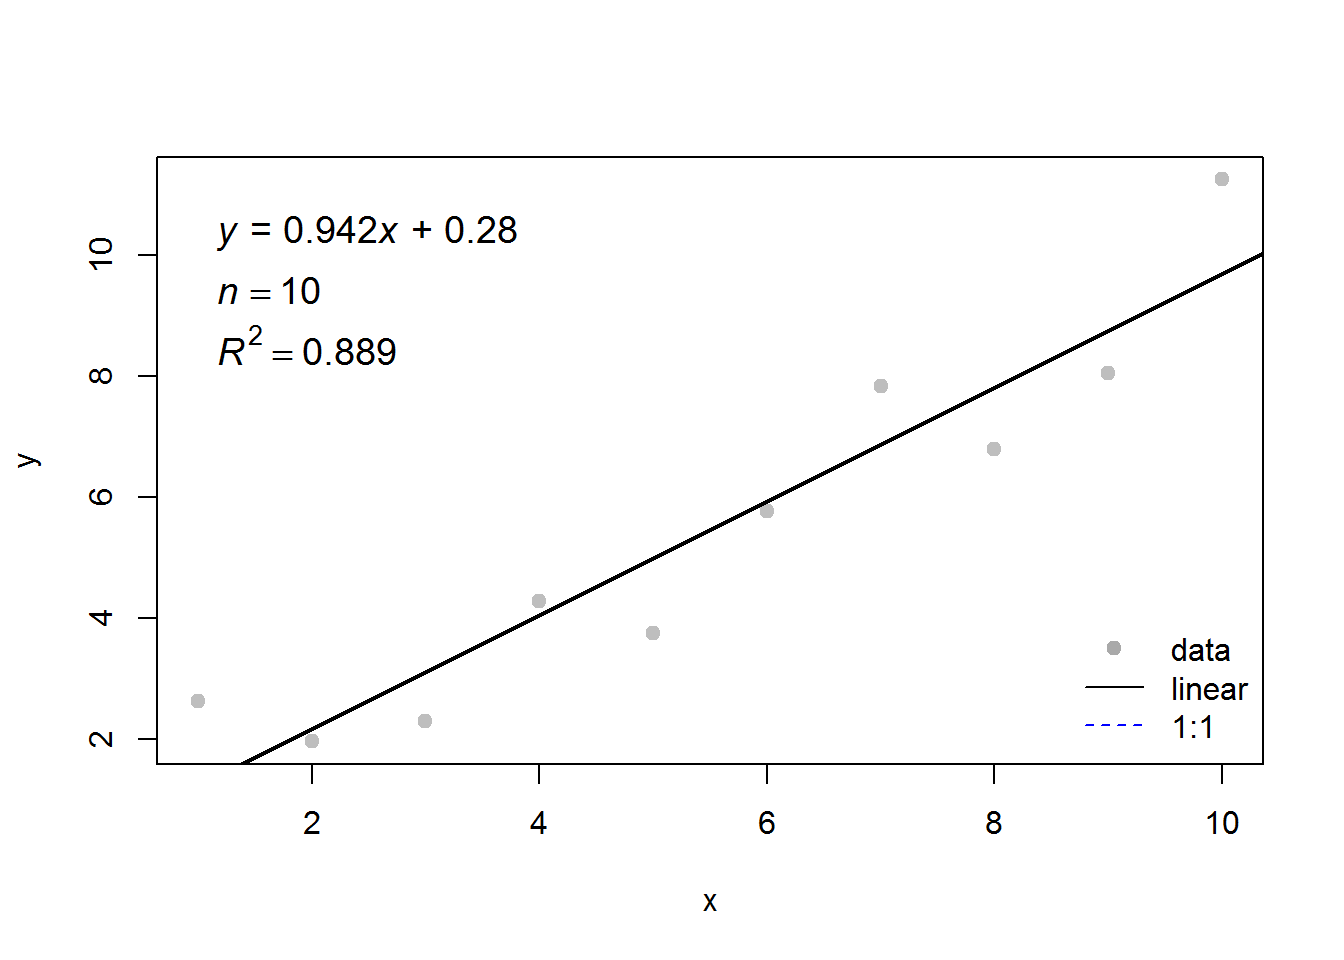
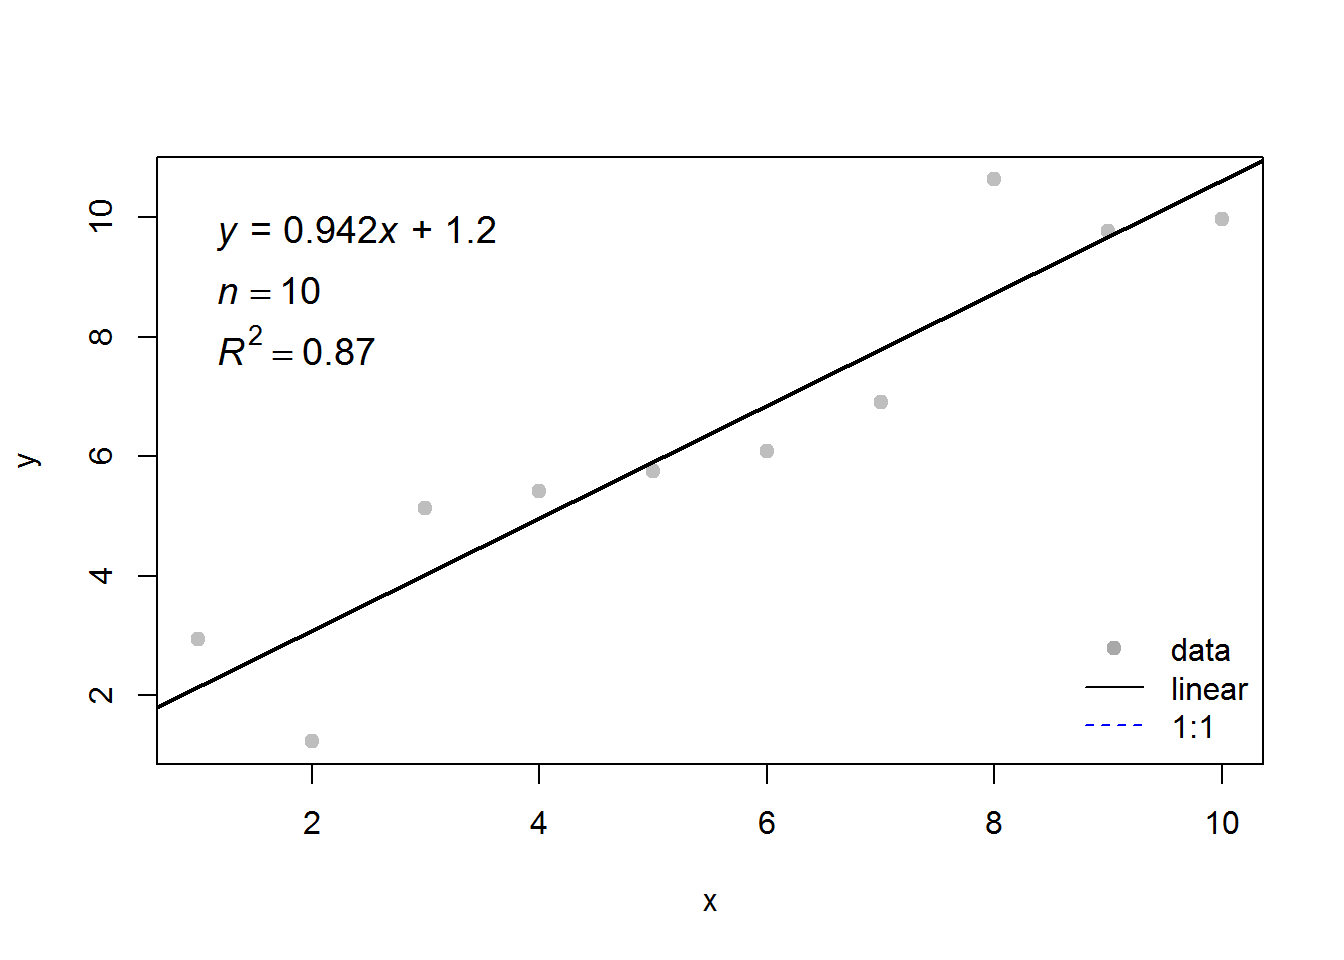
update_auto

diff --git a/content/post/2017-11-21-latex-and-me-1.html b/content/post/2017-11-21-latex-and-me-1.html
@@ -21,16 +21,16 @@ categories: []
 
 </div>
 <p>其实，这本书早在今年 6 月就写完了，7 月做了最后一次修改。当时书号已经批了，封面也有了模样，我以为马上就能印出来了，于是告诉了我能告诉的每一个朋友。朋友们也很给力，把白花花的银子拍在桌上，就等着付钱买了。当了教授的老同学说：放心，到时候我送给我的学生人手一本！</p>
-<p>谁知道，一晃四个多月过去了，书还没出来。我的前期宣传白费了。让人欣慰的是，直到现在，仍然有铁杆粉丝惦记着我，时不时发来鼓励的短信：”喂，你那书烂尾了吧？啊哈哈哈哈~<sub>~</sub>“</p>
+<p>谁知道，一晃四个多月过去了，书还没出来。我的前期宣传白费了。让人欣慰的是，直到现在，仍然有铁杆粉丝惦记着我，时不时发来鼓励的短信：“喂，你那书烂尾了吧？啊哈哈哈哈~<sub>~</sub>”</p>
 <p>谢谢。</p>
 <p>那么四个月里这书干嘛去了？</p>
 <p>在排版。</p>
 <p>《学 R》这本书，一直排不出理想的模样。</p>
-<p>四个月是在反反复复修改排版里度过的。一直拖到上周，我们仍然看不到任何排版成功的迹象。2017 年所剩无几的耐心消耗殆尽，一咬牙一跺脚，我们决定壮士断腕。Y 从出版社讨来排版文件，并且自己花钱购买了专业软件，自己排；我同时用 <span class="math inline">\(\LaTeX\)</span> 排，齐头并进。谁先排好就用谁的。我们谁都不想再拖，再拖就真的要吐血了。</p>
+<p>四个月是在反反复复修改排版里度过的。一直拖到上周，我们仍然看不到任何排版成功的迹象。2017 年所剩无几的耐心消耗殆尽，一咬牙一跺脚，我们决定壮士断腕。合作作者 Y 从出版社讨来排版文件，并且自己花钱购买了专业软件，自己排；我同时用 <span class="math inline">\(\LaTeX\)</span> 排，齐头并进。谁先排好就用谁的。我们谁都不想再拖，再拖就真的要吐血了。</p>
 <p>当做出这个决定的第二天，Y 看到我用 <span class="math inline">\(\LaTeX\)</span> 做出的 pdf 书稿小样得到了印刷厂的认可，就放下了手里的专业软件，决定不干了：“<span class="math inline">\(\LaTeX\)</span> 真厉害，有空我学一下……”</p>
 <p>我立马拦住：“最好别去学。这个坑太大。一入 <span class="math inline">\(\LaTeX\)</span>，坑深似海。”</p>
 <p>2</p>
-<p>出版社负责录入和排版的工作，简称”录排“。</p>
+<p>出版社负责录入和排版的工作，简称“录排”。</p>
 <p>这四个月来，录排可谓兢兢业业，全心全力为《学 R》排版。可惜，辛苦不一定有回报，排出的书稿，一直有层出不穷的问题。</p>
 <p>比如说，丢失公式和特殊字符。原稿里的诸如 <em>R</em><sup>2</sup>， <span class="math inline">\(\pi\)</span> 等都莫名其妙消失了。</p>
 <p>比如说，字体。原稿里的代码都是用等宽字体表示的，录排之后都成了跟正文一样的字体。</p>
@@ -51,7 +51,7 @@ categories: []
 <p>我百思不得其解：这到底是怎么回事？</p>
 <p>3</p>
 <p>来回折磨了四个月。终于， Y 试用了一下录排用的排版软件—— Adobe InDesign，俗称 ID，是国内出版业主流的专业排版软件。</p>
-<p>Y 立刻对我说：”我明白问题出在哪里了！“</p>
+<p>Y 立刻对我说：“我明白问题出在哪里了！”</p>
 <p>原来，录排是把我们提交的原稿，转成了 txt 文本文件；书里的插图，全部转成了 tif 图片。然后，把这些素材导入 ID，然后手动按照原稿 pdf 的样子做调整。</p>
 <p>这正是录排一贯的工作流程。</p>
 <p>这个流程，对文学类书籍没有问题。一篇小说，重要的是内容，不是格式；只要把文字分好段，就不会有大错。</p>

diff --git a/content/post/2017-06-23-beginr_released.html b/content/post/2017-06-23-beginr_released.html
@@ -54,12 +54,12 @@ y &lt;- 1:10 + rnorm(10)
 beginr::plotlm(x, y)</code></pre>
 <p><img src="/post/2017-06-23-beginr_released_files/figure-html/unnamed-chunk-2-1.png" width="672" /></p>
 <pre><code>## [[1]]
-##              Estimate Std. Error   t value     Pr(&gt;|t|)
-## (Intercept) 0.5442648  0.6977742 0.7800014 4.578438e-01
-## x           0.9770216  0.1124565 8.6879968 2.400091e-05
+##               Estimate Std. Error    t value     Pr(&gt;|t|)
+## (Intercept) -0.6577368  0.7842379 -0.8386954 4.259887e-01
+## x            1.1781598  0.1263914  9.3215194 1.430609e-05
 ## 
 ## [[2]]
-## [1] 0.9041701</code></pre>
+## [1] 0.9156925</code></pre>
 <p>经常需要了解一组数据的分布, 看看是不是正态分布. beginr 里的 <code>plothist()</code> 函数不仅做出直方图和平滑曲线, 并且标出中值, 中位数, 四分位数, 标准偏差, 样本数, 以及用来判断是否正态分布的 skewness 值.</p>
 <pre class="r"><code>x &lt;- rnorm(10000)
 beginr::plothist(x)</code></pre>
@@ -93,20 +93,20 @@ beginr::errorbar(x, y, yupper = 0.1, ylower = 0.1)</code></pre>
 <p>beginr 提供了一些对数据框计算的函数, 例如计算多列数据两两的相关性和线性拟合结果, 可以用 <code>lmdf()</code> 函数.</p>
 <pre class="r"><code>df &lt;- data.frame(a = 1:10, b = 1:10 + rnorm(10), c = 1:10 + rnorm(10))
 beginr::lmdf(df)</code></pre>
-<pre><code>##   x y r.squared adj.r.squared   intercept     slope Std.Error.intercept
-## 1 a b 0.8609231     0.8435385 -0.06596404 0.9502072           0.8378166
-## 2 a c 0.9394495     0.9318807 -0.49256902 1.1665419           0.6496924
-## 3 b a 0.8609231     0.8435385  0.82468862 0.9060372           0.7647301
-## 4 b c 0.8393032     0.8192161  0.36754992 1.0766806           0.9893454
-## 5 c a 0.9394495     0.9318807  0.72970754 0.8053286           0.4957592
-## 6 c b 0.8393032     0.8192161  0.54270807 0.7795285           0.8270880
-##   Std.Error.slope t.intercept   t.slope Pr.intercept     Pr.slope
-## 1      0.13502637 -0.07873327  7.037198    0.9391785 1.085412e-04
-## 2      0.10470740 -0.75815733 11.140968    0.4700993 3.768146e-06
-## 3      0.12874972  1.07840483  7.037198    0.3122922 1.085412e-04
-## 4      0.16656589  0.37150819  6.463992    0.7199056 1.953942e-04
-## 5      0.07228533  1.47189923 11.140968    0.1792610 3.768146e-06
-## 6      0.12059551  0.65616726  6.463992    0.5301327 1.953942e-04</code></pre>
+<pre><code>##   x y r.squared adj.r.squared  intercept     slope Std.Error.intercept
+## 1 a b 0.8633341     0.8462509  1.7710437 0.7779115           0.6789788
+## 2 a c 0.8714242     0.8553523  1.2499167 0.7792397           0.6566307
+## 3 b a 0.8633341     0.8462509 -1.2138598 1.1098101           1.0163056
+## 4 b c 0.7063766     0.6696737  0.4663274 0.8379799           1.2435001
+## 5 c a 0.8714242     0.8553523 -0.6906159 1.1183007           0.9161938
+## 6 c b 0.7063766     0.6696737  1.3832002 0.8429517           1.1591614
+##   Std.Error.slope t.intercept  t.slope Pr.intercept     Pr.slope
+## 1       0.1094273   2.6083932 7.108932   0.03120812 1.010977e-04
+## 2       0.1058256   1.9035308 7.363431   0.09345821 7.891364e-05
+## 3       0.1561149  -1.1943846 7.108932   0.26653588 1.010977e-04
+## 4       0.1910143   0.3750119 4.387002   0.71739842 2.326867e-03
+## 5       0.1518722  -0.7537880 7.363431   0.47257658 7.891364e-05
+## 6       0.1921476   1.1932766 4.387002   0.26694561 2.326867e-03</code></pre>
 <p>还有两个函数对<code>tapply()</code>进行了改善, 用来进行因子计算.</p>
 <pre class="r"><code>beginr::tapplydf()
 beginr::tapplydfv()</code></pre>

diff --git a/content/post/2017-06-23-beginr_released.en.html b/content/post/2017-06-23-beginr_released.en.html
@@ -57,12 +57,12 @@ y &lt;- 1:10 + rnorm(10)
 beginr::plotlm(x, y)</code></pre>
 <p><img src="/post/2017-06-23-beginr_released.en_files/figure-html/unnamed-chunk-3-1.png" width="672" /></p>
 <pre><code>## [[1]]
-##              Estimate Std. Error   t value     Pr(&gt;|t|)
-## (Intercept) 0.2800883  0.7313197 0.3829903 7.117029e-01
-## x           0.9421687  0.1178628 7.9937718 4.391375e-05
+##              Estimate Std. Error  t value     Pr(&gt;|t|)
+## (Intercept) 1.2028092  0.7988464 1.505683 1.705679e-01
+## x           0.9421435  0.1287458 7.317861 8.245283e-05
 ## 
 ## [[2]]
-## [1] 0.888735</code></pre>
+## [1] 0.8700267</code></pre>
 <p>If you want to display the distribution of a data-set, use <code>plothist()</code>, which gives you a histogram with markers of the median, mean, quantiles, standard deviation, sample number and the skewness.</p>
 <pre class="r"><code>x &lt;- rnorm(10000)
 beginr::plothist(x)</code></pre>
@@ -96,20 +96,20 @@ beginr::errorbar(x, y, yupper = 0.1, ylower = 0.1)</code></pre>
 <p><code>lmdf()</code> performs the linear regression between every two columns in a data frame.</p>
 <pre class="r"><code>df &lt;- data.frame(a = 1:10, b = 1:10 + rnorm(10), c = 1:10 + rnorm(10))
 beginr::lmdf(df)</code></pre>
-<pre><code>##   x y r.squared adj.r.squared   intercept     slope Std.Error.intercept
-## 1 a b 0.8643664     0.8474122 -0.05499169 0.9307135           0.8087908
-## 2 a c 0.9342575     0.9260397 -0.14031725 1.1165659           0.6497697
-## 3 b a 0.8643664     0.8474122  0.79705656 0.9287136           0.7574310
-## 4 b c 0.8387826     0.8186304  0.64903561 1.0568386           0.9539297
-## 5 c a 0.9342575     0.9260397  0.47899045 0.8367240           0.5380994
-## 6 c b 0.8387826     0.8186304  0.30127300 0.7936714           0.8435533
-##   Std.Error.slope t.intercept   t.slope Pr.intercept     Pr.slope
-## 1      0.13034843 -0.06799248  7.140197    0.9474603 9.803186e-05
-## 2      0.10471987 -0.21594920 10.662407    0.8344317 5.248014e-06
-## 3      0.13006834  1.05231575  7.140197    0.3233989 9.803186e-05
-## 4      0.16381170  0.68038098  6.451545    0.5154671 1.979863e-04
-## 5      0.07847422  0.89015232 10.662407    0.3993611 5.248014e-06
-## 6      0.12302036  0.35714755  6.451545    0.7302193 1.979863e-04</code></pre>
+<pre><code>##   x y r.squared adj.r.squared  intercept     slope Std.Error.intercept
+## 1 a b 0.9145841     0.9039071 -0.1398683 0.9230019           0.6187931
+## 2 a c 0.8964762     0.8835357 -0.5433340 1.0026391           0.7474475
+## 3 b a 0.9145841     0.9039071  0.6083801 0.9908800           0.6061546
+## 4 b c 0.7127379     0.6768301  0.3983932 0.9262952           1.1771411
+## 5 c a 0.8964762     0.8835357  1.0551847 0.8941165           0.6260501
+## 6 c b 0.7127379     0.6768301  1.1115665 0.7694500           1.0065120
+##   Std.Error.slope t.intercept  t.slope Pr.intercept     Pr.slope
+## 1      0.09972754  -0.2260340 9.255235    0.8268430 1.508060e-05
+## 2      0.12046207  -0.7269193 8.323276    0.4879983 3.279786e-05
+## 3      0.10706157   1.0036714 9.255235    0.3449253 1.508060e-05
+## 4      0.20791158   0.3384414 4.455236    0.7437417 2.124464e-03
+## 5      0.10742363   1.6854637 8.323276    0.1303880 3.279786e-05
+## 6      0.17270690   1.1043749 4.455236    0.3015368 2.124464e-03</code></pre>
 <p>There are two functions as improvements of <code>tapply()</code> for factor calculation.</p>
 <pre class="r"><code>beginr::tapplydf()
 beginr::tapplydfv()</code></pre>
